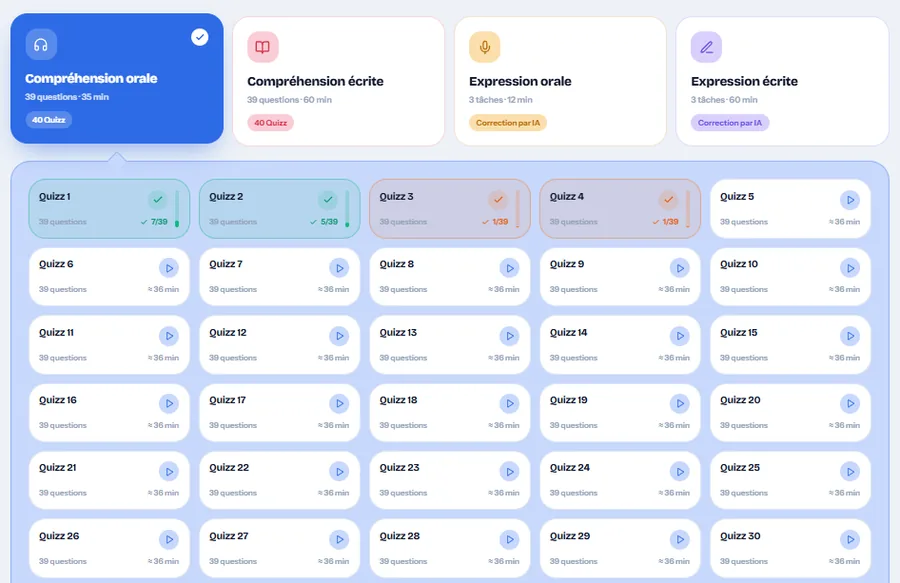
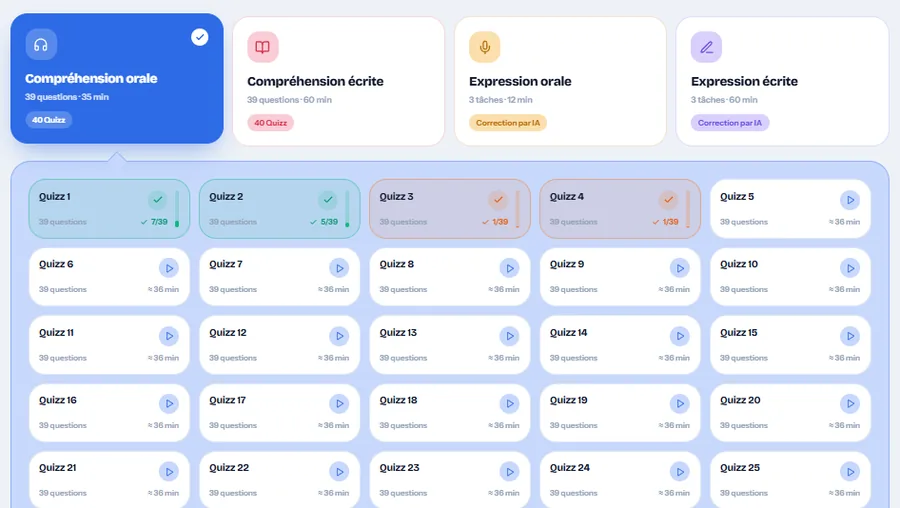
Accueil : collage réorganisé, autocollants dans la scène 3D, épreuves non rognées
Les écrans sont plus espacés pour rester lisibles, le TCF blanc toujours au
centre et le plus grand. Les autocollants du côté droit du hero (699 pts,
« On y va ? », tuiles À et Ç, feuille d'érable) passent dans la scène 3D,
devant les écrans, au lieu de s'éparpiller par-dessus ; ils restent à leur
place sous lg. La capture claire des épreuves prend les proportions de la
sombre, qui n'est donc plus rognée.

diff --git a/src/components/home/HeroCollage.jsx b/src/components/home/HeroCollage.jsx
@@ -1,13 +1,18 @@
 import { useApp } from "@/context/AppContext";
+import { BRAND, Bubble, Tile, Tag, Maple } from "@/components/decor/stickers";
 
 // The landing hero's product collage, after Brevo's: real screens of the app
-// stacked in 3D beside the pitch. The stage is tilted in perspective and each
-// screen sits at its own depth (translateZ), so the ones in front overlap the
-// ones behind; the whole stage leans a few degrees toward the pointer through
-// the --mx / --my variables SectionDecor's parallax already writes. Each
-// screen floats on its own slow loop (.hero-float, on an inner wrapper so it
-// never fights the depth transform). Decorative: aria-hidden, hidden below lg
-// where the pitch takes the full width.
+// stacked in 3D beside the pitch, with the site's stickers (score tags, a
+// speech bubble, letter tiles, a maple leaf) floating in front of them like
+// Brevo's annotation chips. The stage is tilted in perspective and everything
+// sits at its own depth (translateZ): the screens spread so each stays
+// readable, the TCF blanc in the middle as the largest, and the stickers well
+// forward of them. The whole stage leans a few degrees toward the pointer
+// through the --mx / --my variables SectionDecor's parallax already writes;
+// each piece floats on its own slow loop (.hero-float / .decor-*, on an inner
+// wrapper so it never fights the depth transform). Decorative: aria-hidden,
+// hidden below lg where the pitch takes the full width — the hero's own
+// right-hand stickers (SectionDecor) show there instead.
 //
 // Each screen is drawn as a solid slab rather than a card: a thick outline,
 // and an extrusion made of one hard shadow per pixel of depth, so the gap
@@ -22,23 +27,33 @@ import { useApp } from "@/context/AppContext";
 // change.
 //
 // Screenshots live in src/assets/hero (dark theme), cropped below the app's
-// nav bar so no account name shows. Light-theme captures of the same screens
-// go in src/assets/hero/light/ under the same file names: each one found there
-// is shown in light mode, and a screen without one keeps its dark capture.
+// nav bar so no account name shows; light-theme captures of the same screens
+// are in src/assets/hero/light/ under the same names. A pair must share its
+// proportions (the épreuves light capture is trimmed to the dark one's), or
+// one of the two gets cropped in its frame.
 const DARK = import.meta.glob("/src/assets/hero/*.webp", { eager: true, query: "?url", import: "default" });
 const LIGHT = import.meta.glob("/src/assets/hero/light/*.webp", { eager: true, query: "?url", import: "default" });
 const darkShot = (name) => DARK[`/src/assets/hero/${name}.webp`];
 const lightShot = (name) => LIGHT[`/src/assets/hero/light/${name}.webp`] || darkShot(name);
 
-// [screen, position, width, depth px, float delay s] — back to front. The TCF
-// blanc is the centrepiece and the largest; the four corners each get their
-// own size so none mirrors another.
-const CARDS = [
-  ["dashboard", "right-0 top-0", "w-[50%]", -120, 0],
-  ["epreuves", "left-0 top-[6%]", "w-[36%]", -70, -3.1],
-  ["tcf-blanc", "left-[17%] top-[19%]", "w-[60%]", 10, -1.6],
-  ["dictee", "left-[2%] bottom-[2%]", "w-[30%]", 70, -4.4],
-  ["calculator", "right-[1%] bottom-0", "w-[42%]", 120, -2.5],
+// [screen, position, width, depth px, float delay s] — back to front.
+const SCREENS = [
+  ["dashboard", "right-0 top-[2%]", "w-[47%]", -110, 0],
+  ["epreuves", "left-0 top-0", "w-[43%]", -60, -3.1],
+  ["tcf-blanc", "left-[21%] top-[22%]", "w-[55%]", 20, -1.6],
+  ["dictee", "left-0 bottom-[1%]", "w-[33%]", 80, -4.4],
+  ["calculator", "right-0 bottom-0", "w-[40%]", 110, -2.5],
+];
+
+// [sticker, position, depth px, animation] — all in front of the screens.
+const { blue, violet, red, amber } = BRAND;
+const STICKERS = [
+  [<Tag key="pts" text="699 pts" color={amber} tilt={6} />, "right-[20%] top-[19%]", 190, "decor-float"],
+  [<Bubble key="go" text="On y va ?" color={violet} solid tail="right" tilt={5} />, "left-[38%] -top-[3%]", 170, "decor-float-slow"],
+  [<Tile key="a" ch="À" pts={2} color={blue} tilt={-7} />, "-left-[3%] top-[40%]", 160, "decor-sway"],
+  [<Tile key="c" ch="Ç" pts={4} color={amber} tilt={8} />, "right-[37%] bottom-[2%]", 200, "decor-sway"],
+  [<Tag key="nclc" text="NCLC 9" color={red} tilt={-5} />, "left-[24%] bottom-[30%]", 210, "decor-float"],
+  [<Maple key="leaf" color={red} size={44} tilt={14} />, "-right-[2%] top-[44%]", 150, "decor-sway"],
 ];
 
 const DEPTH = 6; // thickness of the slab, px
@@ -54,15 +69,13 @@ export function HeroCollage() {
       <div className="absolute inset-0 transition-transform duration-700 ease-out"
         style={{
           transformStyle: "preserve-3d",
-          transform: "rotateY(calc(-16deg + var(--mx, 0) * 4deg)) rotateX(calc(7deg - var(--my, 0) * 3deg)) rotateZ(1.5deg)",
+          transform: "rotateY(calc(-14deg + var(--mx, 0) * 4deg)) rotateX(calc(6deg - var(--my, 0) * 3deg)) rotateZ(1deg)",
         }}>
-        {CARDS.map(([name, pos, width, z, delay]) => (
+        {SCREENS.map(([name, pos, width, z, delay]) => (
           <div key={name} className={`absolute ${pos} ${width}`} style={{ transform: `translateZ(${z}px)`, transformStyle: "preserve-3d" }}>
             <div className="hero-float" style={{ animationDelay: `${delay}s` }}>
               {/* The frame holds the outline and the slab; inside, the two
-                  captures share one grid cell and crossfade. The cell takes
-                  the taller one's height and the other covers it, cropped
-                  from the top, should their proportions differ a little. */}
+                  captures share one grid cell and crossfade. */}
               <div className="grid rounded-2xl overflow-hidden" style={frame}>
                 {[[darkShot(name), dark], [lightShot(name), !dark]].map(([src, on], k) => (
                   <img key={k} src={src} alt="" draggable="false"
@@ -70,6 +83,11 @@ export function HeroCollage() {
                 ))}
               </div>
             </div>
+          </div>
+        ))}
+        {STICKERS.map(([sticker, pos, z, anim], i) => (
+          <div key={i} className={`absolute ${pos}`} style={{ transform: `translateZ(${z}px)` }}>
+            <div className={anim} style={{ animationDelay: `${-i * 1.7}s` }}>{sticker}</div>
           </div>
         ))}
       </div>

diff --git a/src/components/decor/SectionDecor.jsx b/src/components/decor/SectionDecor.jsx
@@ -11,17 +11,19 @@ const { blue, violet, red, amber } = BRAND;
 // side margins and each section has its own theme: a greeting in the hero,
 // scores near the calculator, a flight to Canada in the final call to action.
 const LAYOUTS = {
+  // From lg the hero's right side holds the 3D product collage, which carries
+  // its own stickers (HeroCollage.jsx): the right-hand ones here step aside.
   hero: [
     [Bubble, { text: "Bonjour !", color: blue, tilt: -6 }, "top-28 left-[4%]", "decor-float", 18],
     [Tag, { text: "C1", color: violet, tilt: -8 }, "top-[24%] left-[17%]", "decor-float-slow", 30],
     [Tile, { ch: "É", pts: 3, color: red, tilt: -10 }, "top-[46%] left-[9%]", "decor-sway", 26],
     [Maple, { color: amber, size: 40, tilt: -20 }, "top-[66%] left-[1.5%]", "decor-sway", 32],
     [Flight, { color: violet, width: 200 }, "bottom-24 left-[2%]", "", 12],
-    [Maple, { color: red, size: 60, tilt: 14 }, "top-24 right-[7%]", "decor-sway", 22],
-    [Tag, { text: "699 pts", color: blue, tilt: 6 }, "top-[22%] right-[17%]", "decor-float", 28],
-    [Bubble, { text: "On y va ?", color: violet, solid: true, tail: "right", tilt: 5 }, "top-[44%] right-[3%]", "decor-float-slow", 16],
-    [Tile, { ch: "À", pts: 2, color: blue, tilt: -7 }, "top-[63%] right-[1.5%]", "decor-sway", 30],
-    [Tile, { ch: "Ç", pts: 4, color: amber, tilt: 8 }, "bottom-28 right-[10%]", "decor-sway", 28],
+    [Maple, { color: red, size: 60, tilt: 14 }, "top-24 right-[7%] lg:hidden", "decor-sway", 22],
+    [Tag, { text: "699 pts", color: blue, tilt: 6 }, "top-[22%] right-[17%] lg:hidden", "decor-float", 28],
+    [Bubble, { text: "On y va ?", color: violet, solid: true, tail: "right", tilt: 5 }, "top-[44%] right-[3%] lg:hidden", "decor-float-slow", 16],
+    [Tile, { ch: "À", pts: 2, color: blue, tilt: -7 }, "top-[63%] right-[1.5%] lg:hidden", "decor-sway", 30],
+    [Tile, { ch: "Ç", pts: 4, color: amber, tilt: 8 }, "bottom-28 right-[10%] lg:hidden", "decor-sway", 28],
   ],
   features: [
     [Tag, { text: "Vos outils", color: violet, tilt: -7 }, "top-24 left-[3%]", "decor-float", 18],
